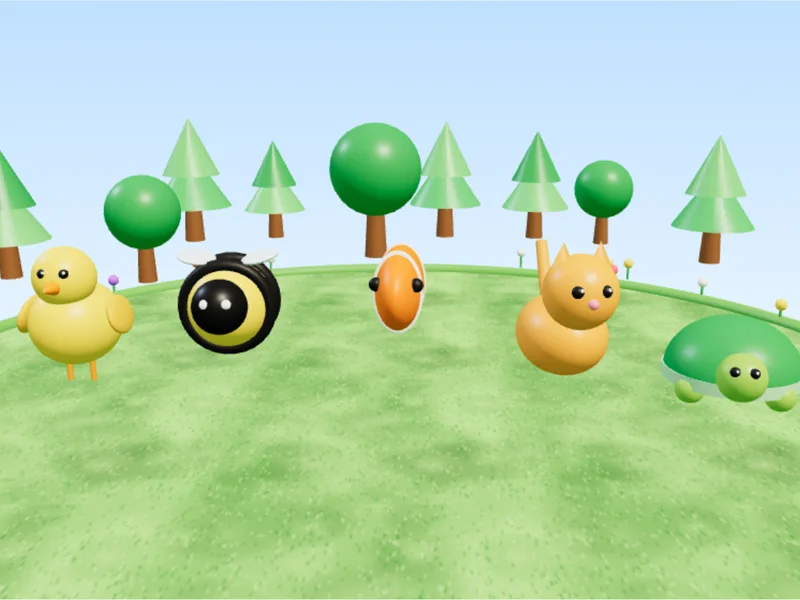
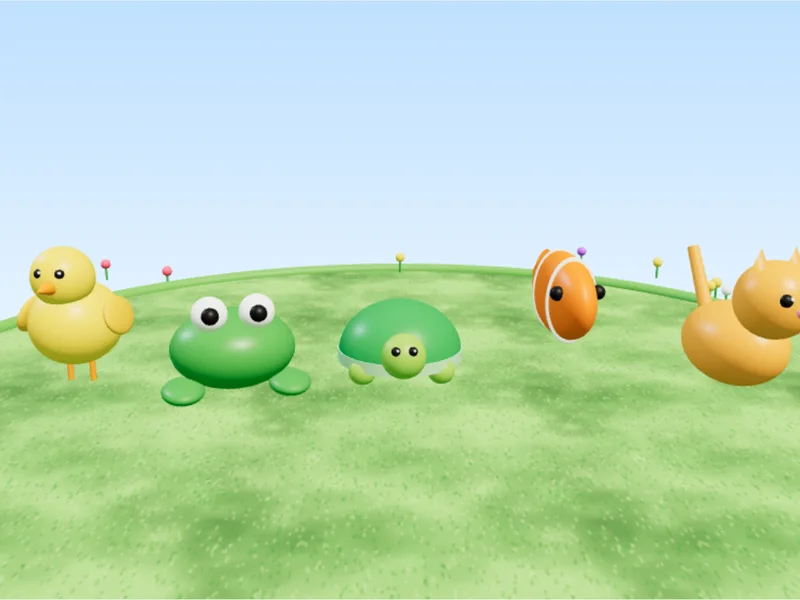
3D ойындардың фонынан ағаштар алынды
Claude-Session: https://claude.ai/code/session_01JwVscDKs5Ms9sQhpVNECAf

diff --git a/games.html b/games.html
@@ -993,10 +993,6 @@ function envMap(T, renderer) { const sc = new T.Scene(); const geo = new T.Spher
   const lamp = new T.Mesh(new T.SphereGeometry(1.4, 16, 8), new T.MeshBasicMaterial({ color: 0xffffff })); lamp.position.set(5, 7, 4); lamp.material.color.multiplyScalar(4); sc.add(lamp);
   const pm = new T.PMREMGenerator(renderer); const tex = pm.fromScene(sc, .02).texture; pm.dispose(); return tex; }
 function decorate(S, R) { const T = S.T, g = new T.Group(); S.scene.add(g); const trunkM = S.mat(0x8d5a34), leafC = [0x2e9e4f, 0x3fb55f, 0x5cc46a], flowerC = [0xff5a7a, 0xffd23f, 0xffffff, 0xb26bff];
-  for (let i = 0; i < 14; i++) { const a = Math.PI * (1.08 + i / 13 * .84) + rnd0(-.05, .05); const rr = R + .6 + Math.random() * 3.2; const x = Math.cos(a) * rr, z = Math.sin(a) * rr; const t = new T.Group(); t.position.set(x, 0, z); const s = .8 + Math.random() * .7; t.scale.setScalar(s);
-    const tr = new T.Mesh(new T.CylinderGeometry(.1, .14, .7, 10), trunkM); tr.position.y = .35; tr.castShadow = true; t.add(tr);
-    if (i % 3) { [0, 1].forEach(k => { const c = S.mesh(new T.ConeGeometry(.55 - k * .15, .8, 18), leafC[(i + k) % 3], [0, .9 + k * .45, 0]); t.add(c); }); } else { t.add(S.mesh(new T.SphereGeometry(.55, 20, 14), leafC[i % 3], [0, 1.05, 0])); }
-    g.add(t); }
   for (let i = 0; i < 26; i++) { const a = Math.random() * Math.PI * 2, rr = R - .25 + Math.random() * 1.4; const f = new T.Group(); f.position.set(Math.cos(a) * rr, 0, Math.sin(a) * rr); if (f.position.z > R * .6) continue;
     const st = new T.Mesh(new T.CylinderGeometry(.015, .015, .22, 5), S.mat(0x3c9a3c)); st.position.y = .11; f.add(st); f.add(S.mesh(new T.SphereGeometry(.07, 10, 8), flowerC[i % 4], [0, .24, 0])); g.add(f); }
   const rim = new T.Mesh(new T.TorusGeometry(R, .09, 10, 90), S.mat(0x5fae4a)); rim.rotation.x = Math.PI / 2; rim.position.y = .01; rim.receiveShadow = true; g.add(rim);
@@ -1482,7 +1478,7 @@ function g3Runner() {
   const S = make3D(U3.host, { cam: [0, 3.2, 6.5], look: [0, .4, -5], rotate: false, ground: false }); if (!S) return; const T = S.T; clouds(S, [[-8, 8, -40], [6, 9, -50], [14, 7, -35]]);
   const field = S.mesh(rbox(T, 60, .1, 200), 0x8fd36b, [0, -.12, -60]); field.material = S.grass(30); S.world.add(field, S.mesh(rbox(T, 5.2, .12, 200), 0xc9b38a, [0, -.08, -60]));
   const dashes = []; for (let i = 0; i < 30; i++) [-.87, .87].forEach(x => { const d = S.mesh(rbox(T, .08, .02, 1), 0xffffff, [x, 0, -i * 3]); S.world.add(d); dashes.push(d); });
-  const trees = []; for (let i = 0; i < 24; i++) { const t = cityObj(S, 'tree'); t.position.set((i % 2 ? 1 : -1) * rnd(3.4, 6), 0, -i * 4); t.scale.setScalar(1.6); S.world.add(t); trees.push(t); }
+  const trees = [];
   const hero = ANIM3.bunny.b(S); hero.rotation.y = Math.PI; hero.scale.setScalar(.7); S.world.add(hero);
   const LN = [-1.75, 0, 1.75]; let lane = 1, things = [], last = now3(), nextAt = now3() + 1200, over = false, stars = 0, hits = 0; const speed = byAge([7, 9.5, 12]), dur = byAge([35, 45, 55]), t0 = now3();
   const go = d => { if (over) return; lane = Math.max(0, Math.min(2, lane + d)); snd('flip'); U3.say(d < 0 ? '⬅ Солға!' : 'Оңға! ➡'); };
